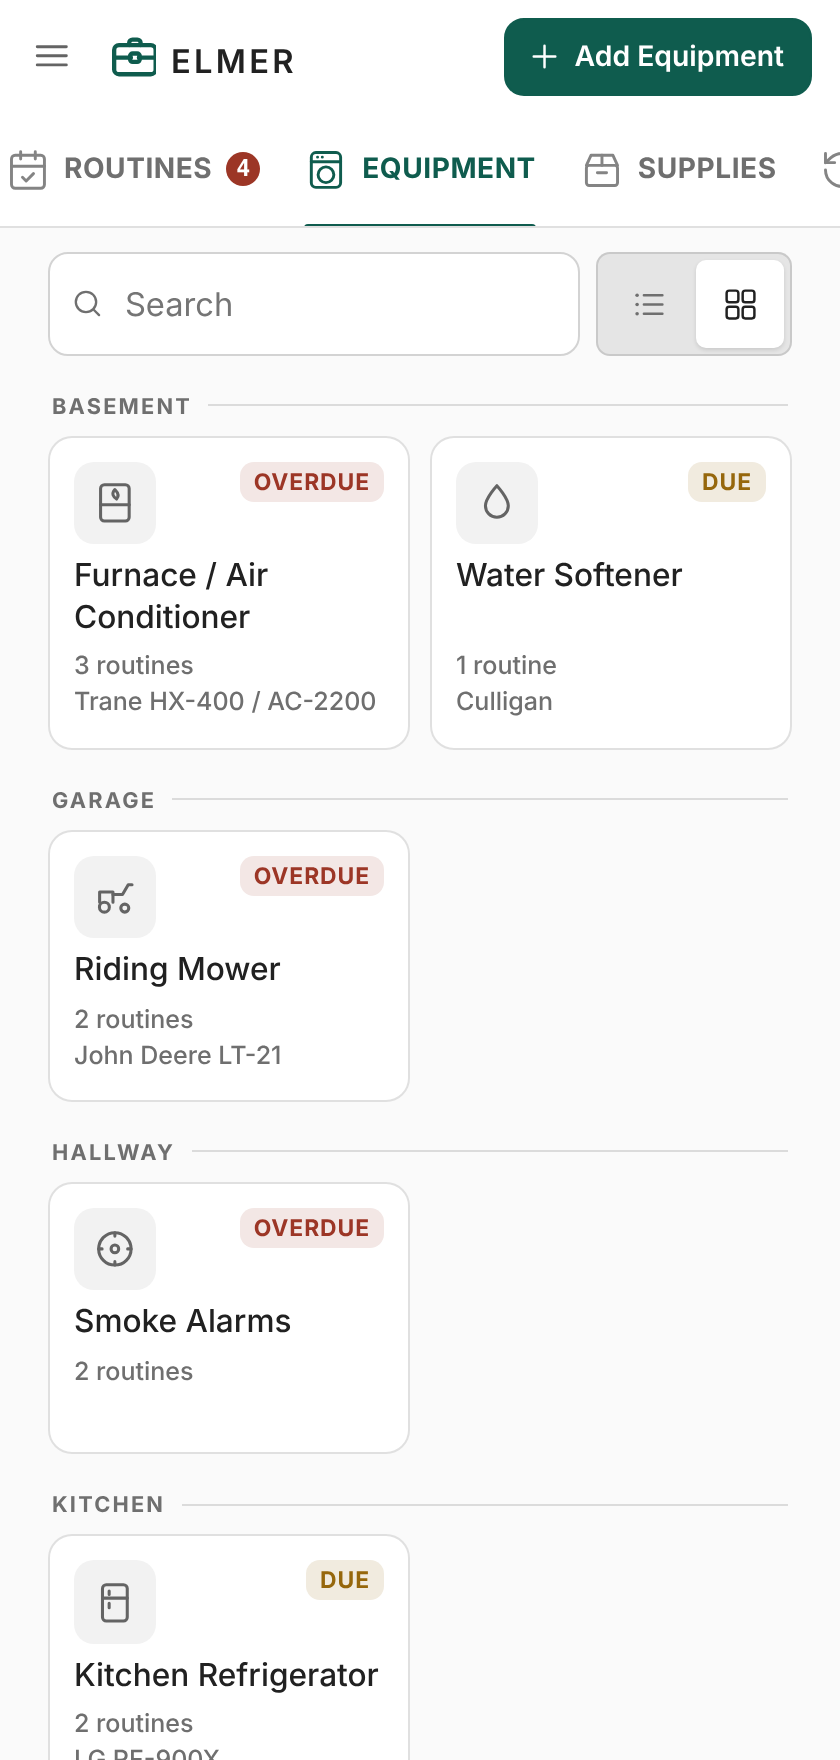
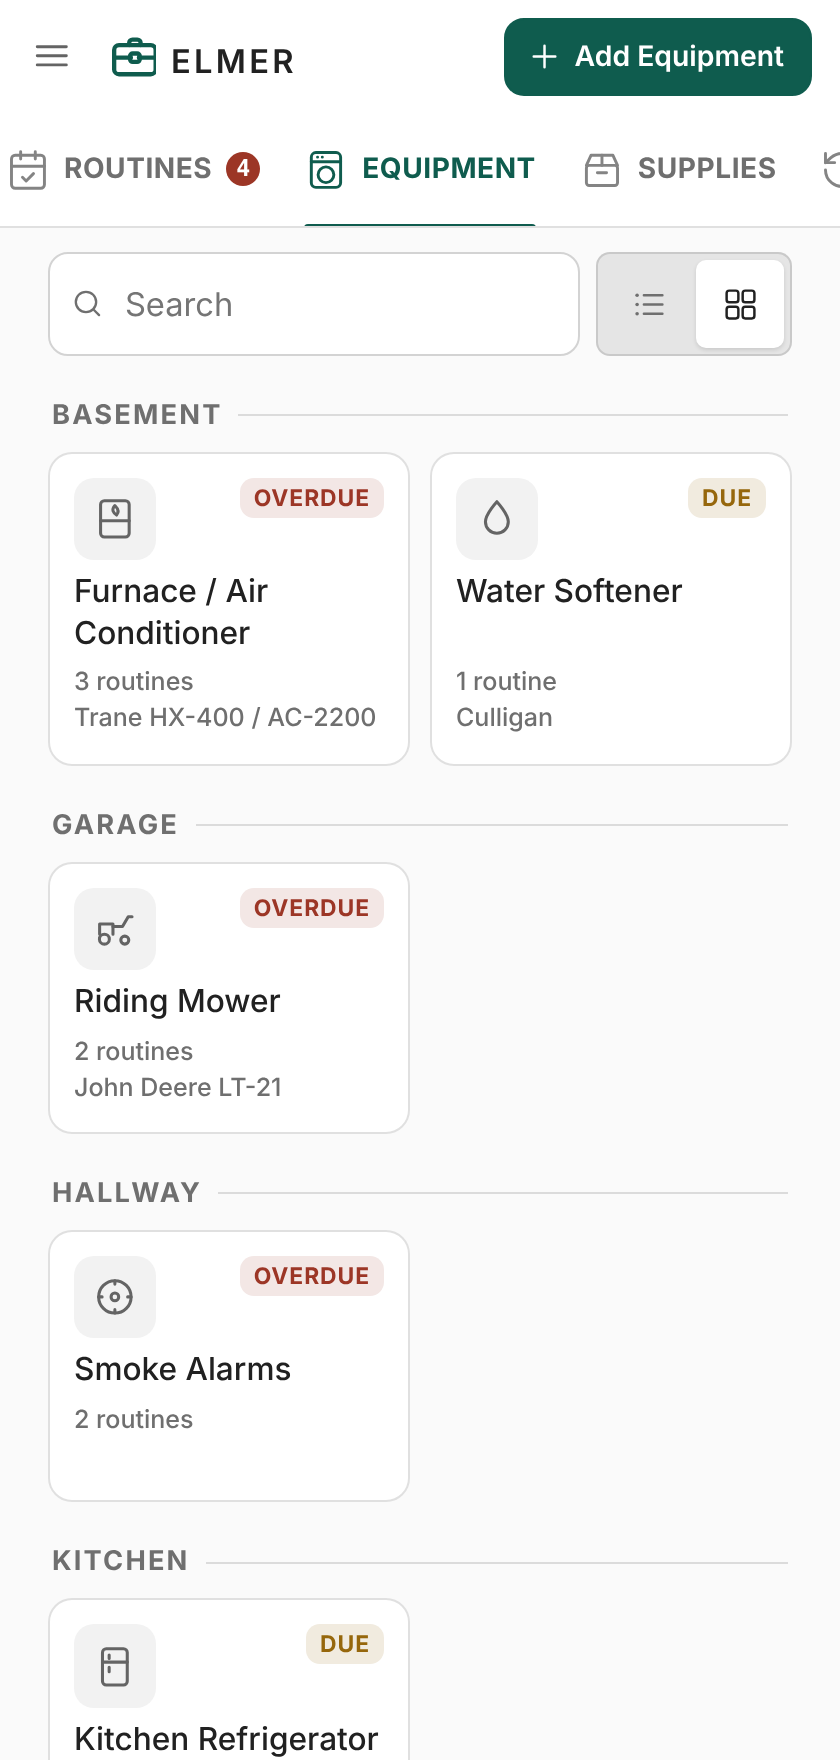
Redesign attachment list and section headings
Show attachments as full-name rows with format, size, and date, and move Add into the section heading. Enlarge section labels, adjust the mobile History range picker, and update screenshots and release documentation for 1.12.2.

diff --git a/custom_components/elmer/frontend/styles.js b/custom_components/elmer/frontend/styles.js
@@ -864,7 +864,7 @@ export const CSS = `
   border-radius: 999px;
   background: var(--surface-3);
   color: var(--ink-2);
-  font-size: calc(10px * var(--ui-scale));
+  font-size: calc(11px * var(--ui-scale));
   font-weight: 700;
   letter-spacing: 0;
   font-variant-numeric: tabular-nums;
@@ -878,7 +878,7 @@ export const CSS = `
   color: var(--accent);
   min-width: 1.6em;
   height: 1.6em;
-  font-size: calc(10.5px * var(--ui-scale));
+  font-size: calc(11.5px * var(--ui-scale));
 }
 
 /* ---------- filter row ----------
@@ -957,12 +957,12 @@ export const CSS = `
 /* ---------- section label ---------- */
 
 .label {
-  font-size: calc(10px * var(--ui-scale));
+  font-size: calc(12.5px * var(--ui-scale));
   font-weight: 700;
-  letter-spacing: 0.1em;
+  letter-spacing: 0.08em;
   text-transform: uppercase;
   color: var(--ink-3);
-  margin: 18px 2px 8px;
+  margin: 22px 2px 10px;
   display: flex;
   align-items: center;
   gap: 8px;
@@ -973,6 +973,10 @@ export const CSS = `
    of the row and the trailing thing would sit against the text. */
 .label::after { content: ""; flex: 1; height: 1px; background: var(--line); order: 1; }
 .label .count, .label .seg { order: 2; }
+/* History's heading carries the range picker. At the larger heading size the
+   two no longer share a phone's width, so there the picker takes a row of its
+   own, full width, under the count. */
+.histlabel { flex-wrap: wrap; row-gap: 12px; white-space: nowrap; }
 .label:first-child { margin-top: 4px; }
 
 /* The month, under the year, sitting at the end of the curve. Deliberately
@@ -985,7 +989,7 @@ export const CSS = `
   gap: 7px;
   margin: 2px 2px 2px var(--indent, 22px);
   min-height: calc(18px * var(--ui-scale));
-  font-size: calc(9.5px * var(--ui-scale));
+  font-size: calc(11px * var(--ui-scale));
   font-weight: 600;
   letter-spacing: 0.08em;
   text-transform: uppercase;
@@ -1734,62 +1738,67 @@ a.btn { text-decoration: none; }
 }
 .linkfields .linkurl { font-family: var(--mono); font-size: calc(13px * var(--ui-scale)); }
 
-/* Attachments: a small tile per file — an icon for its kind and the format
-   under it — with the name below; the last tile adds one. */
-.attcard { padding: 12px; }
-.attgrid {
-  display: grid;
-  grid-template-columns: repeat(auto-fill, calc(72px * var(--ui-scale)));
-  justify-content: start;
-  gap: 12px 10px;
-}
-.att {
+/* Attachments: Add is a button in the section heading, so it never moves,
+   and each file is a row — an icon for its kind, its whole name, and its
+   format, size and date. */
+.label .att-add {
+  order: 3;
   position: relative;
-  display: flex;
-  flex-direction: column;
-  align-items: center;
+  min-height: calc(32px * var(--ui-scale));
+  padding: 0 12px 0 10px;
   gap: 5px;
-  min-width: 0;
-  padding: 0;
+  border-color: color-mix(in srgb, var(--accent) 55%, var(--line-strong));
+  background: color-mix(in srgb, var(--accent) 12%, var(--surface));
+  color: var(--accent);
+  font-size: calc(13px * var(--ui-scale));
+  letter-spacing: 0;
+  text-transform: none;
+}
+.label .att-add:hover { background: color-mix(in srgb, var(--accent) 20%, var(--surface)); }
+.label .att-add:focus-within { outline: 2px solid var(--accent); outline-offset: 2px; }
+.att-add input[type="file"] {
+  /* Reaches a little past the button above and below, so the press target
+     is a finger's height while the button stays heading-sized. */
+  position: absolute; inset: -7px 0; width: 100%; height: calc(100% + 14px);
+  opacity: 0; cursor: pointer; font-size: 0;
+}
+.att-add.busy { cursor: progress; opacity: .7; }
+.attcard { padding: 0; overflow: hidden; }
+.attlist { display: flex; flex-direction: column; }
+.att {
+  display: flex;
+  align-items: center;
+  gap: 12px;
+  width: 100%;
+  min-height: calc(60px * var(--ui-scale));
+  padding: 10px 12px 10px 14px;
   border: 0;
   background: none;
   color: var(--ink);
   font: inherit;
-  text-align: center;
+  text-align: left;
   cursor: pointer;
+  -webkit-tap-highlight-color: transparent;
 }
+.att + .att { border-top: 1px solid var(--line); }
+.att:hover { background: var(--surface-2); }
+.att:focus-visible { outline: 2px solid var(--accent); outline-offset: -2px; }
 .att-face {
-  position: relative;
-  display: flex;
-  flex-direction: column;
-  align-items: center;
-  justify-content: center;
-  gap: 3px;
-  width: calc(56px * var(--ui-scale));
-  height: calc(56px * var(--ui-scale));
+  flex: none;
+  display: grid;
+  place-items: center;
+  width: calc(40px * var(--ui-scale));
+  height: calc(40px * var(--ui-scale));
   border-radius: var(--r-md);
   border: 1px solid var(--card-border);
   background: var(--paper);
   color: var(--ink-2);
 }
-.att-face b { font-size: calc(9.5px * var(--ui-scale)); font-weight: 600; letter-spacing: .08em; color: var(--ink-3); }
-.att:hover .att-face, .att:focus-visible .att-face { border-color: var(--accent); }
-.att:focus-visible { outline: none; }
-.att-name {
-  width: 100%;
-  font-size: calc(12px * var(--ui-scale));
-  line-height: 1.25;
-  overflow: hidden;
-  display: -webkit-box;
-  -webkit-line-clamp: 2;
-  -webkit-box-orient: vertical;
-  overflow-wrap: anywhere;
-}
-.att-add .att-face { border-style: dashed; color: var(--accent); }
-.att-add input[type="file"] { position: absolute; inset: 0; opacity: 0; cursor: pointer; width: 100%; height: 100%; }
-.att-add.busy { cursor: progress; opacity: .7; }
-.att-add .att-name { color: var(--ink-2); }
-.att-hint { margin: 10px 2px 0; }
+.att-text { flex: 1; min-width: 0; display: flex; flex-direction: column; gap: 2px; }
+.att-name { font-weight: 600; line-height: 1.3; overflow-wrap: anywhere; }
+.att-meta { font-size: calc(12px * var(--ui-scale)); color: var(--ink-3); font-variant-numeric: tabular-nums; }
+.att-chev { flex: none; color: var(--ink-3); display: grid; }
+.att-hint { margin: 0; padding: 14px; }
 /* The opened photo: hidden until it is signed, and an icon if it will not draw. */
 .att-img:not([src]) { visibility: hidden; }
 .att-fallback { display: none; }
@@ -2137,6 +2146,10 @@ a.btn { text-decoration: none; }
 /* Below the desktop breakpoint everything comes up a notch. The sizes here
    were judged on a monitor at reading distance, where they are right; at the
    distance a phone is actually held they read small. */
+@media (max-width: 759px) {
+  .histlabel .seg { order: 3; flex: 1 1 100%; }
+  .histlabel .seg button { flex: 1 1 0; }
+}
 @media (max-width: 759px) {
   :host { --ui-base: 1.09; }
 

diff --git a/custom_components/elmer/frontend/views.js b/custom_components/elmer/frontend/views.js
@@ -542,8 +542,8 @@ export function equipmentDetail(state, id) {
 
 /* Photos and PDFs on a piece of equipment or an animal. The files are served
    by Home Assistant only to someone signed in, so an <img> cannot point at
-   one directly: each tile carries the path in data-att, and the panel swaps
-   in a link Home Assistant has signed (see _fillAttachments). */
+   one directly: the opened photo carries the path in data-att, and the panel
+   swaps in a link Home Assistant has signed (see _fillAttachments). */
 export const ATTACH_ACCEPT = 'image/jpeg,image/png,image/webp,image/heic,image/heif,.heic,.heif,application/pdf';
 export const ATTACH_MAX = 20 * 1024 * 1024;
 const ATTACH_IMAGES = new Set(['image/jpeg', 'image/png', 'image/webp', 'image/heic']);
@@ -563,33 +563,37 @@ const ATTACH_LABEL = {
   'image/jpeg': 'JPG', 'image/png': 'PNG', 'image/webp': 'WEBP', 'image/heic': 'HEIC', 'application/pdf': 'PDF',
 };
 
-/** One attachment in the section: an icon for its kind, the format, its name.
-    The file itself only loads once it is opened. */
-function attachmentTile(rec, a) {
+/** One attachment in the list: an icon for its kind, its whole name, and
+    what it is. The file itself only loads once it is opened. */
+function attachmentRow(state, rec, a) {
   const isImage = ATTACH_IMAGES.has(a.type);
-  return `<button class="att ${isImage ? 'att-photo' : 'att-pdf'}" data-act="open-attachment" data-record="${esc(rec.id)}" data-id="${esc(a.id)}" type="button" aria-label="${esc(a.name)}">
-    <span class="att-face">${icon(isImage ? 'image' : 'document', 22)}<b>${ATTACH_LABEL[a.type] || ''}</b></span>
-    <span class="att-name">${esc(a.name)}</span>
+  const added = a.addedAt ? formatDay(new Date(a.addedAt).toISOString().slice(0, 10), state.computed.today) : '';
+  const meta = [ATTACH_LABEL[a.type] || '', sizeText(a.size), added].filter(Boolean).join(' · ');
+  return `<button class="att ${isImage ? 'att-photo' : 'att-pdf'}" data-act="open-attachment" data-record="${esc(rec.id)}" data-id="${esc(a.id)}" type="button">
+    <span class="att-face" aria-hidden="true">${icon(isImage ? 'image' : 'document', 20)}</span>
+    <span class="att-text"><span class="att-name">${esc(a.name)}</span><span class="att-meta">${esc(meta)}</span></span>
+    <span class="att-chev" aria-hidden="true">${icon('chevron', 16)}</span>
   </button>`;
 }
 
-/** The section on an equipment or animal page: tiles, then a tile to add one. */
+/** The section on an equipment or animal page. Add sits in the heading, so
+    it stays put however many files there are; each file is a row with its
+    name in full. */
 export function attachmentsSection(state, rec) {
   const list = Array.isArray(rec.attachments) ? rec.attachments : [];
   const busy = state.uploading && state.uploading[rec.id];
-  return `<div class="label">Attachments</div>
+  return `<div class="label attlabel">Attachments${list.length ? `<span class="count">${list.length}</span>` : ''}
+      <label class="btn att-add${busy ? ' busy' : ''}">
+        <input type="file" accept="${ATTACH_ACCEPT}" multiple data-act="upload-attachment" data-record="${esc(rec.id)}" aria-label="Add a photo or PDF"${busy ? ' disabled' : ''}>
+        ${icon(busy ? 'upload' : 'plus', 16)}<span>${busy ? 'Adding…' : 'Add'}</span>
+      </label>
+    </div>
     <div class="card attcard">
-      <div class="attgrid">
-        ${list.map((a) => attachmentTile(rec, a)).join('')}
-        <label class="att att-add${busy ? ' busy' : ''}">
-          <input type="file" accept="${ATTACH_ACCEPT}" multiple data-act="upload-attachment" data-record="${esc(rec.id)}" aria-label="Add a photo or PDF"${busy ? ' disabled' : ''}>
-          <span class="att-face">${icon(busy ? 'upload' : 'plus', 22)}</span>
-          <span class="att-name">${busy ? 'Adding…' : 'Add'}</span>
-        </label>
-      </div>
-      ${list.length ? '' : `<div class="hint att-hint">${isAnimal(rec)
-    ? 'A vaccination record, adoption papers, a photo'
-    : 'The manual, a receipt, a photo of the rating plate'} — photos and PDFs up to 20 MB.</div>`}
+      ${list.length
+    ? `<div class="attlist">${list.map((a) => attachmentRow(state, rec, a)).join('')}</div>`
+    : `<div class="hint att-hint">${isAnimal(rec)
+      ? 'A vaccination record, adoption papers, a photo'
+      : 'The manual, a receipt, a photo of the rating plate'} — photos and PDFs up to 20 MB.</div>`}
     </div>`;
 }
 
@@ -819,7 +823,7 @@ export function historyView(state) {
       aria-pressed="${range[0] === key}">${label}</button>`)}
   </div>`;
 
-  const head = html`<div class="label">
+  const head = html`<div class="label histlabel">
     ${kept.length} ${raw(kept.length === 1 ? 'service' : 'services')} logged${raw(picker)}
   </div>`;
 

diff --git a/tools/harness/fake-hass.js b/tools/harness/fake-hass.js
@@ -723,7 +723,7 @@ panel.hass = {
   user: { is_admin: true, name: 'Phil' },
 };
 panel.narrow = params.get('narrow') === '1';
-panel.panel = { config: { version: '1.12.1' } };
+panel.panel = { config: { version: '1.12.2' } };
 document.body.appendChild(panel);
 
 // Handles the panel's request to open Home Assistant's sidebar, which proves

diff --git a/README.md b/README.md
@@ -121,14 +121,15 @@ relabelling it.
 
 **Attachments.** The manual, the receipt, a photo of the rating plate, the
 rabies certificate: every piece of equipment and every animal has an
-**Attachments** section at the bottom of its page. Press **Add** to pick photos
-or PDFs — several at once, or straight from the camera on a phone — up to
-20 MB each and 50 on one record. Each one is a small tile — a photo or
-document icon with its format (JPG, PNG, PDF…) and its name — so a page with
-a dozen of them stays short, and nothing is downloaded until you open one.
-Tapping a tile opens a sheet with the photo itself, where you can rename it,
-open it full size, or delete it; a PDF downloads. A file keeps its own name unless it is one a camera made up
-(`IMG_4821.jpg`), in which case it is just "Photo" until you name it.
+**Attachments** section at the bottom of its page. Press **Add**, in the
+section's heading, to pick photos or PDFs — several at once, or straight from
+the camera on a phone — up to 20 MB each and 50 on one record. Each one is a
+row with a photo or document icon, its full name, and its format, size and
+date (PDF · 212 KB · 13 Nov 2026); nothing is downloaded until you open one.
+Tapping a row opens a sheet with the photo itself, where you can rename it,
+open it full size, or delete it; a PDF downloads. A file keeps its own name
+unless it is one a camera made up (`IMG_4821.jpg`), in which case it is just
+"Photo" until you name it.
 
 Elmer keeps JPEG, PNG, WebP and HEIC photos and PDFs, and checks the file
 itself rather than its name, so nothing else gets in by being renamed. HEIC is
@@ -137,7 +138,7 @@ but browsers that cannot draw it show a photo icon there instead — Open
 downloads it to view.
 
 <p>
-  <img src="https://raw.githubusercontent.com/philecker/elmer-ha/main/images/attachments.png" alt="Attachments on a piece of equipment: an icon tile for each photo and PDF, and an Add tile" width="250">
+  <img src="https://raw.githubusercontent.com/philecker/elmer-ha/main/images/attachments.png" alt="Attachments on a piece of equipment: a row for each photo and PDF, and an Add button in the heading" width="250">
   <img src="https://raw.githubusercontent.com/philecker/elmer-ha/main/images/attachment.png" alt="A photo of a rating plate, opened to rename, open or delete" width="250">
 </p>
 

diff --git a/CHANGELOG.md b/CHANGELOG.md
@@ -7,6 +7,19 @@ available is the body of the GitHub release, in the Marketplace as it was in
 HACS. This is here for anyone reading the repository, and the release bodies
 are written from it.
 
+## 1.12.2
+
+### Changed
+
+- **Attachments are a list.** Each file is a row with its full name — however
+  long, it wraps rather than being cut off — and its format, size and date
+  underneath. Add is a button in the section's heading, beside a count, so it
+  stays in the same place however many files there are.
+- **Section headings are larger** throughout — Routines, Links, Attachments,
+  Appearance, the years in History and the rest — so they read as headings
+  rather than as small print. On a phone, History's range picker now has a
+  row of its own under the count.
+
 ## 1.12.1
 
 ### Fixed
